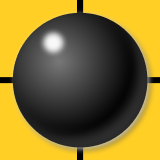
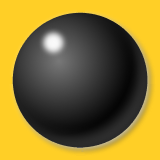
use images with grid for player status

diff --git a/src/styles/app.css b/src/styles/app.css
@@ -31,12 +31,12 @@
     vertical-align:middle;
   }
   .black{
-    background: url('/black.png') no-repeat;
+    background: url('/black-with-grid.png') no-repeat;
     background-size: contain;
   }
 
   .white {
-    background: url('/white.png') no-repeat;
+    background: url('/white-with-grid.png') no-repeat;
     background-size: contain;
   }
   
